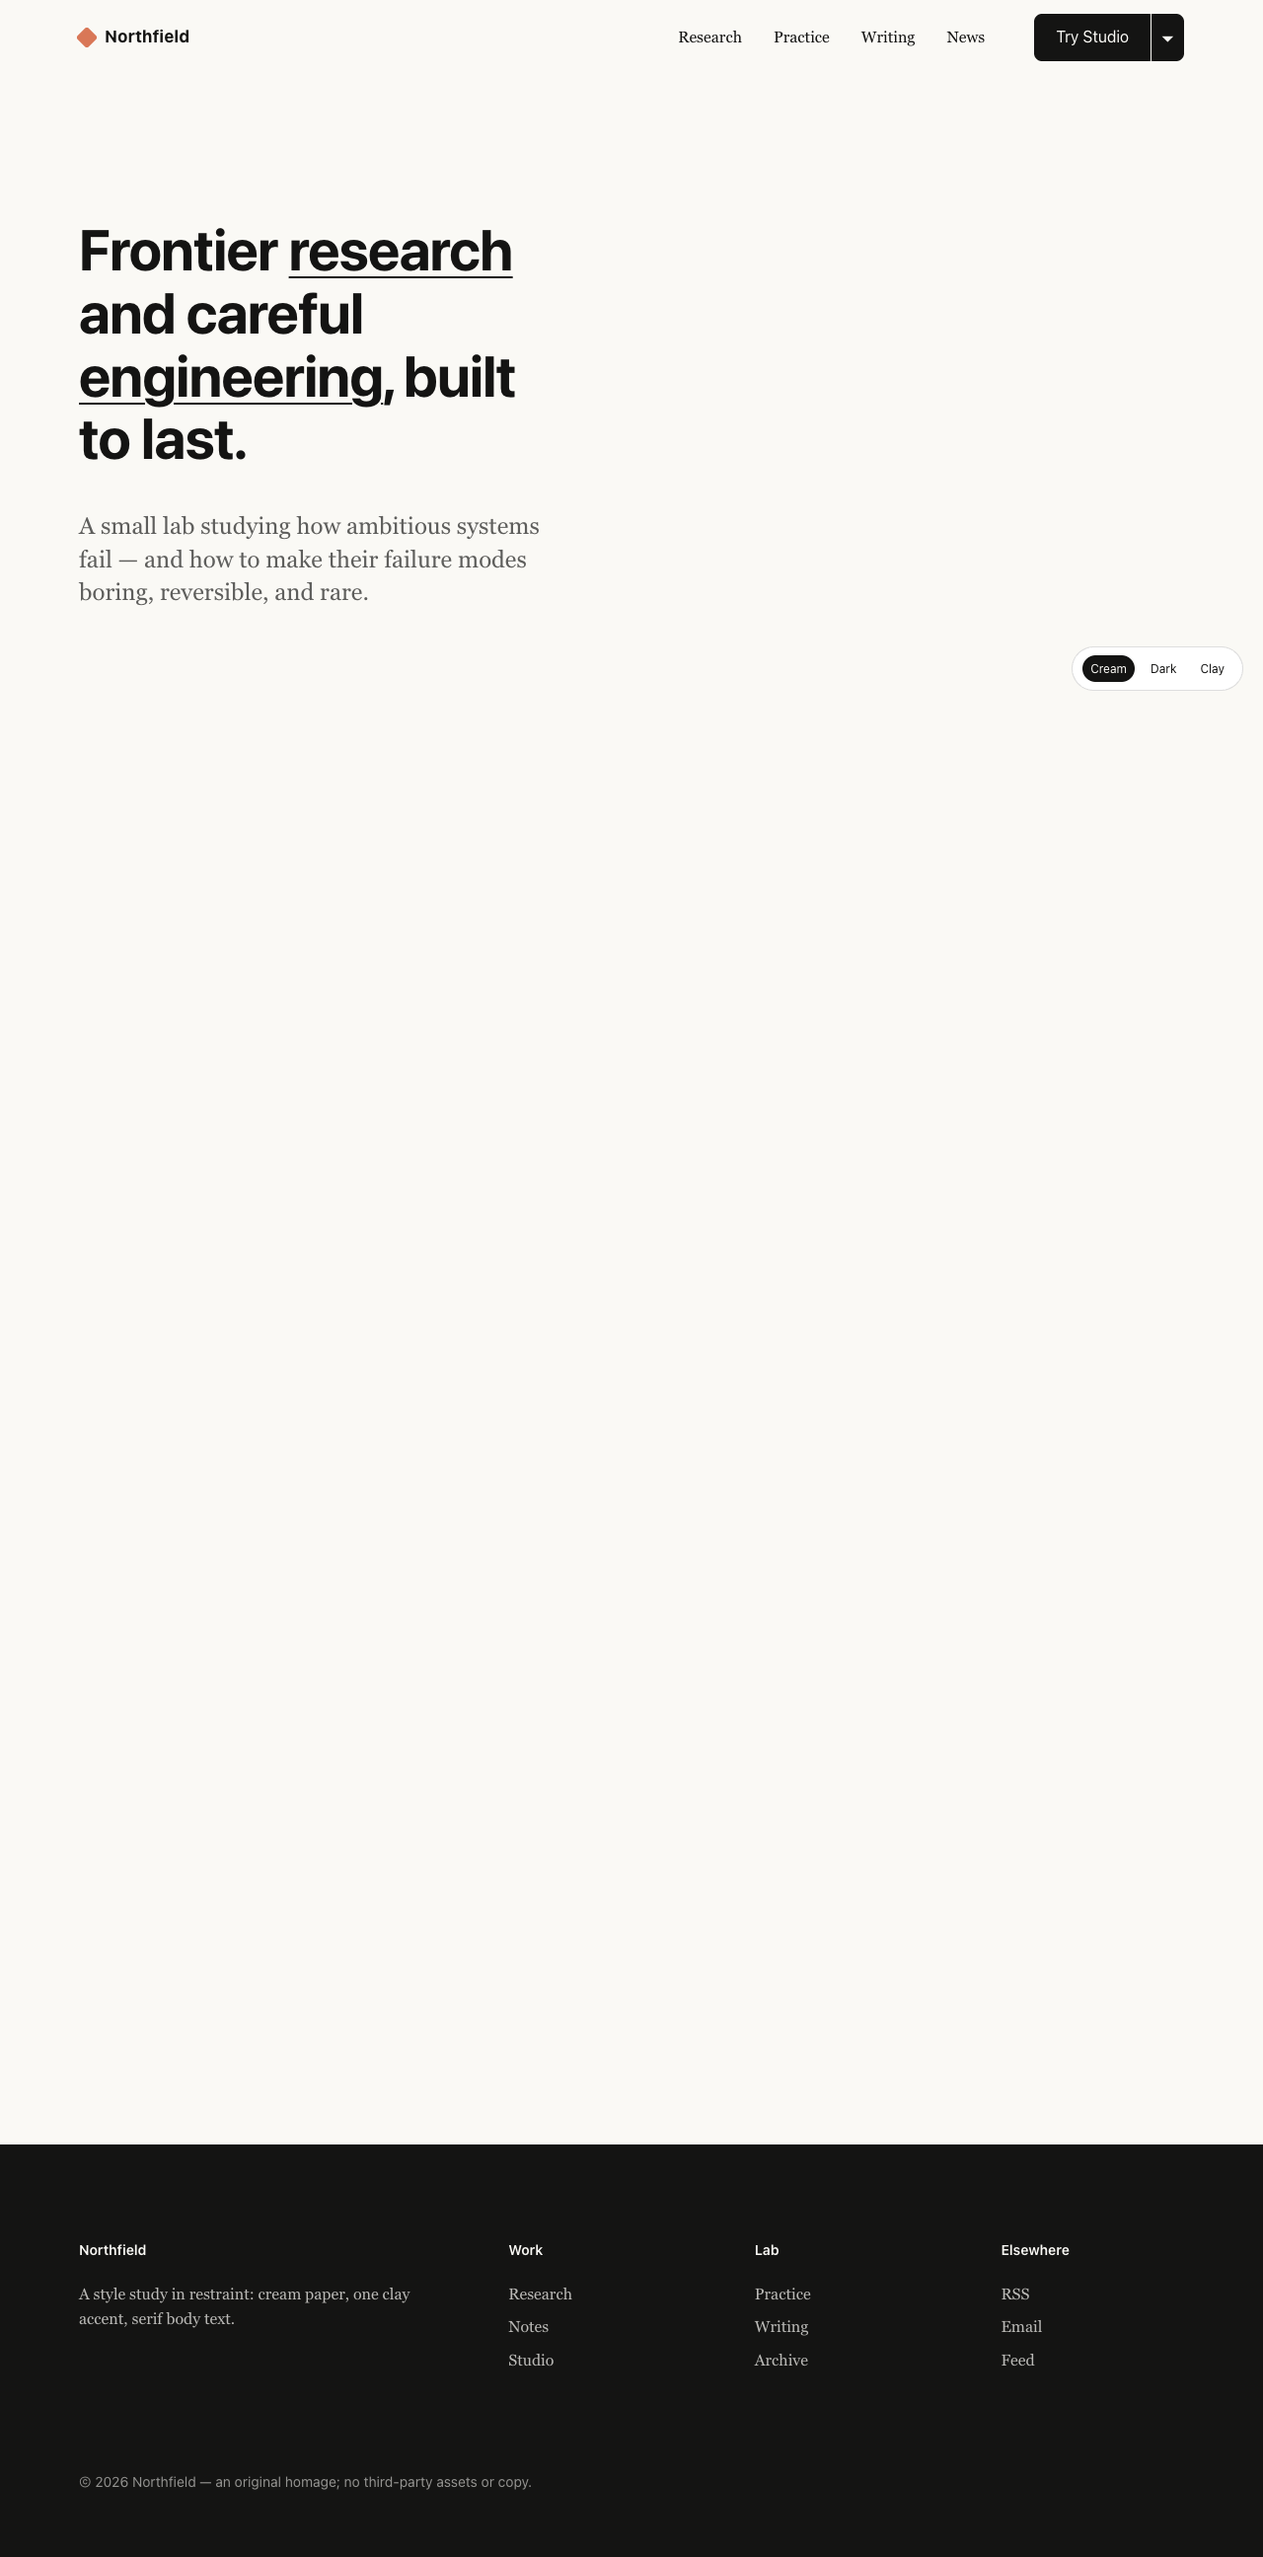
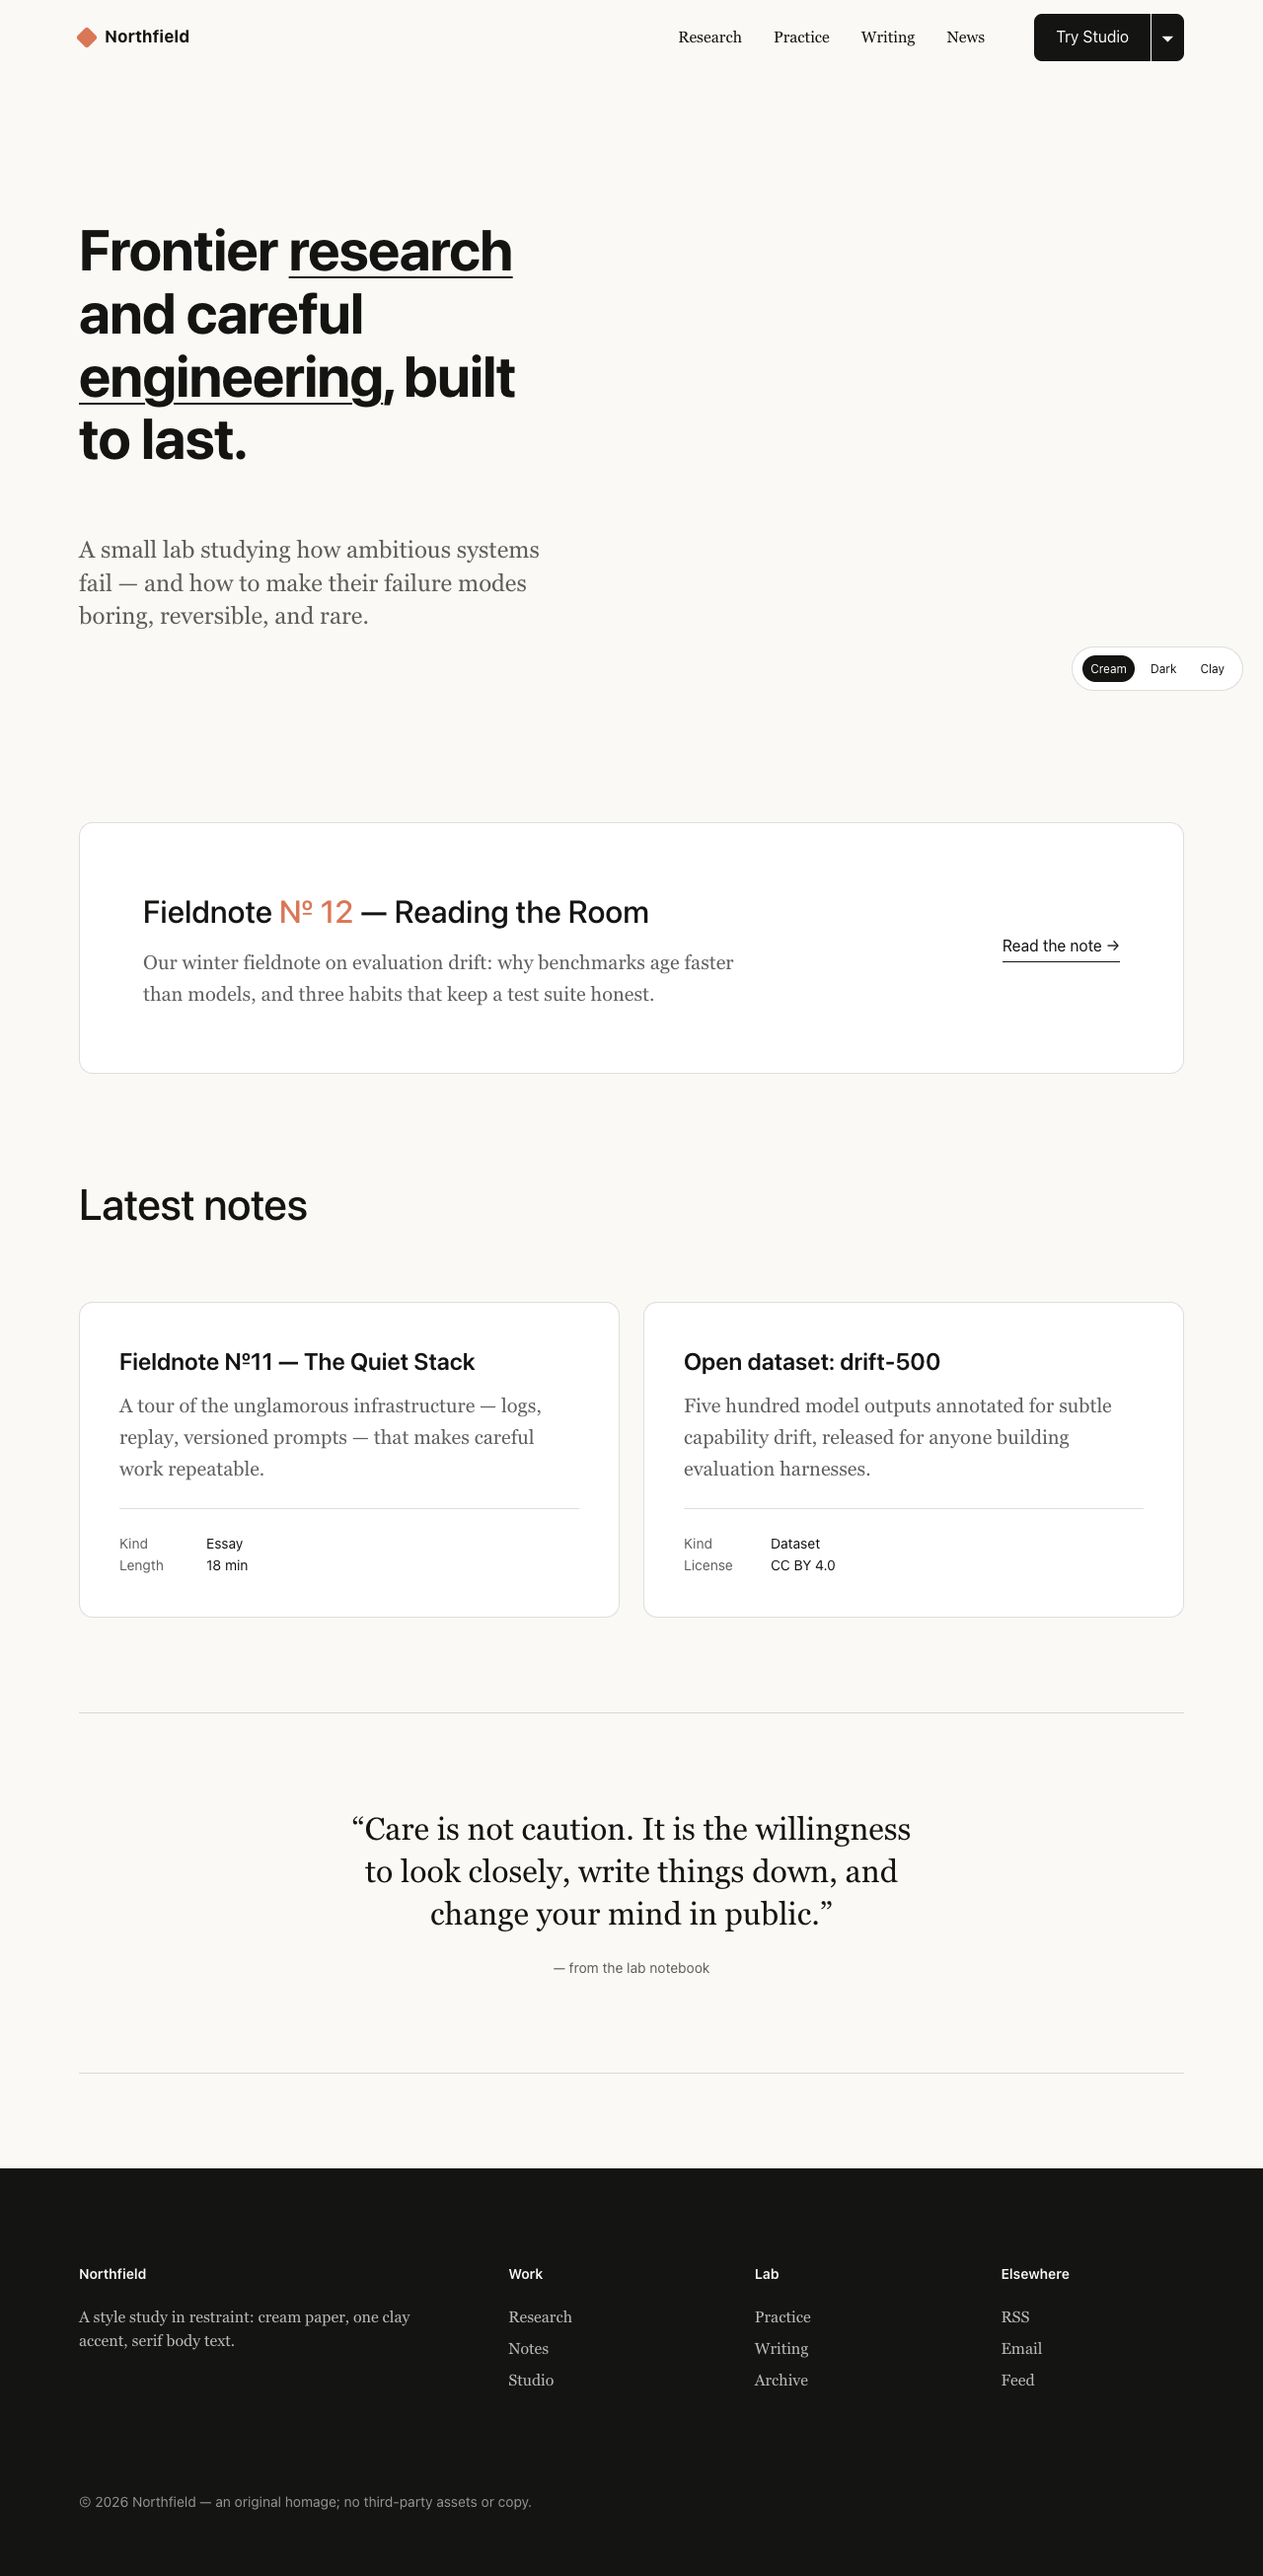
web-clones: anthropic review round 1 — a11y, spacing, hover polish

diff --git a/web-clones/clones/2026-09-29-anthropic/index.html b/web-clones/clones/2026-09-29-anthropic/index.html
@@ -4,6 +4,8 @@
 <meta charset="UTF-8">
 <meta name="viewport" content="width=device-width, initial-scale=1.0">
 <title>Frontier Lab — a style study</title>
+<meta name="description" content="An original style study recreating a restrained cream-and-ink editorial web aesthetic.">
+<meta name="theme-color" content="#FAF9F5">
 <style>
 /* ============ Design Tokens (extracted 2026-09-29) ============ */
 :root {
@@ -50,6 +52,8 @@ body {
 ::selection { background: var(--clay); color: var(--bg); }
 .wrap { max-width: 1200px; margin: 0 auto; padding: 0 40px; }
 a { color: inherit; text-decoration: none; }
+a:focus-visible, button:focus-visible { outline: 2px solid var(--clay); outline-offset: 3px; border-radius: 2px; }
+section[id] { scroll-margin-top: 96px; }
 
 /* ============ Nav ============ */
 .banner { position: sticky; top:0; z-index:50; background: var(--bg);
@@ -83,7 +87,7 @@ a { color: inherit; text-decoration: none; }
   text-decoration-thickness: 1.5px; text-decoration-color: var(--ink);
   transition: text-decoration-color var(--dur) var(--ease); }
 .hero h1 .lnk:hover { text-decoration-color: var(--clay); }
-.hero .lede { margin-top: var(--space-4); max-width: 34ch; font-size: var(--step-2);
+.hero .lede { margin-top: var(--space-5); max-width: 34ch; font-size: var(--step-2);
   line-height: 1.4; color: var(--ink-soft); }
 
 /* ============ Announcement card ============ */
@@ -109,7 +113,7 @@ a { color: inherit; text-decoration: none; }
 .card { grid-column: span 6; border: 1px solid var(--line); border-radius: 14px;
   padding: var(--space-4); background: var(--card);
   transition: border-color var(--dur) var(--ease), transform var(--dur) var(--ease); }
-.card:hover { border-color: var(--ink); transform: translateY(-2px); }
+.card:hover { border-color: var(--ink); box-shadow: 0 1px 2px rgba(20,20,19,.05); }
 .card h3 { font-family: var(--sans); font-size: var(--step-2); font-weight: 600; }
 .card > p { margin-top: 10px; color: var(--ink-soft); font-size: var(--step-1); }
 .meta { margin-top: var(--space-3); border-top: 1px solid var(--line); padding-top: var(--space-3); }
@@ -130,7 +134,7 @@ footer { background: var(--footer-bg); color: var(--footer-ink);
 .foot-grid { display:grid; grid-template-columns: 2fr 1fr 1fr 1fr; gap: var(--space-5); }
 .foot-grid h4 { font-family: var(--sans); font-size: var(--step--1); font-weight:600;
   margin-bottom: var(--space-2); color: var(--footer-ink); }
-.foot-grid a { display:block; font-size: var(--step-0); opacity:.72; padding:4px 0; }
+.foot-grid a { display:block; font-size: var(--step-0); opacity:.72; padding:4px 0; line-height:1.5; }
 .foot-grid a:hover { opacity:1; }
 .foot-note { font-family: var(--sans); font-size: var(--step--1); opacity:.55;
   margin-top: var(--space-6); }
@@ -149,6 +153,10 @@ footer { background: var(--footer-bg); color: var(--footer-ink);
 .theme button[aria-pressed="true"] { background: var(--ink); color: var(--bg); }
 
 /* ============ Responsive ============ */
+@media (prefers-reduced-motion: reduce) {
+  .rv { opacity: 1; transform: none; transition: none; }
+  html { scroll-behavior: auto; }
+}
 @media (max-width: 1024px) { .hero h1 { font-size: var(--step-4); } .card { grid-column: span 12; } }
 @media (max-width: 768px) {
   .wrap { padding: 0 20px; }

diff --git a/web-clones/clones/2026-09-29-anthropic/review-log.md b/web-clones/clones/2026-09-29-anthropic/review-log.md
@@ -1,0 +1,32 @@
+# review-log · anthropic.com 复刻
+
+## 第 1 轮（2026-09-29 09:26，响应"质量要求提高"反馈补做）
+
+**四维自评（修复前 → 修复后）**
+
+| 维度 | 修前 | 修后 | 说明 |
+|------|------|------|------|
+| 正确性 | 4 | 4.5 | 令牌来自 DOM 实测；修复可访问性细节 |
+| 完整性 | 4 | 4.5 | 六阶段齐备；补 meta 与焦点态 |
+| 精致度 | 3.5 | 4 | 7 处 P2 细节修复 |
+| 可用性 | 4 | 4.5 | 键盘/Reduced-motion 场景覆盖 |
+
+**P0/P1**：无。
+
+**P2 修复清单（7 处）**
+
+1. 补 `meta description` 与 `theme-color`；
+2. `section[id]` 增加 `scroll-margin-top`，锚点不再被吸顶导航遮住；
+3. `a/button` 增加 `:focus-visible` 陶土色描边（键盘可达性）；
+4. 支持 `prefers-reduced-motion`：关闭滚动显现与平滑滚动；
+5. hero 导语上间距 64px，更贴近原站"大留白"节奏；
+6. 卡片 hover 从位移改为 1px 极轻投影，更符合原站克制气质；
+7. 页脚链接行高 1.5，长文案不再拥挤。
+
+**修复后**：重新全页截图 `clone.png` 并覆盖提交。
+
+## 诚实自评
+
+距离"直接拿去用"还差：品牌字体替代（当前系统栈近似，气质像但非原站定制字）、
+像素级逐区对照（当前是结构级+令牌级对齐）。这两项已列入 PROGRESS 的打磨循环，
+下次额度优先做逐区 diff。

diff --git a/web-clones/PROGRESS.md b/web-clones/PROGRESS.md
@@ -9,9 +9,13 @@
 - [x] 阶段5：tokens.json 结构化沉淀 + BACKLOG 打勾
 - [x] 阶段6：notes.md 差异自检（结构级）；像素级打磨循环待后续额度补充
 
+## 复审记录
+
+- [x] 第1轮（09:26）：7 处 P2 精修（a11y/间距/hover/页脚），重截图，见 clones/2026-09-29-anthropic/review-log.md
+
 ## 待办 / 下次入口
 
-- [ ] 阶段6 加深：对照 original.png 做 3 轮像素级差异修正（当前完成结构级自检）
+- [ ] 阶段6 加深：对照 original.png 做 3 轮像素级逐区差异修正（第1轮结构级已完成）
 - [ ] 下一个对象：openai.com（Codex）
 
 ## 下次入口
